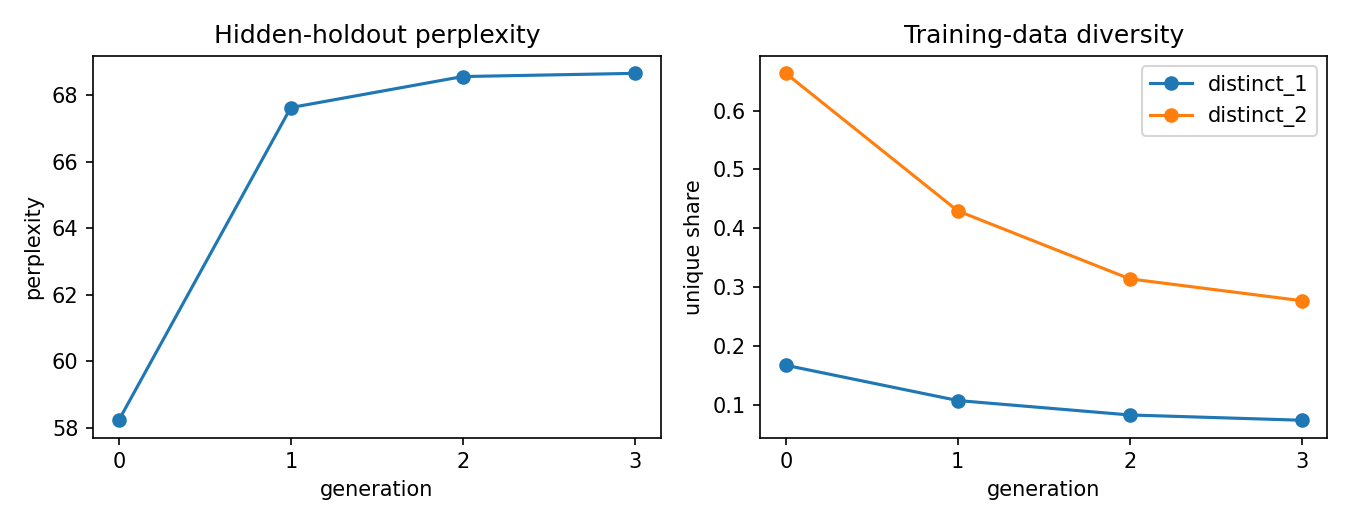
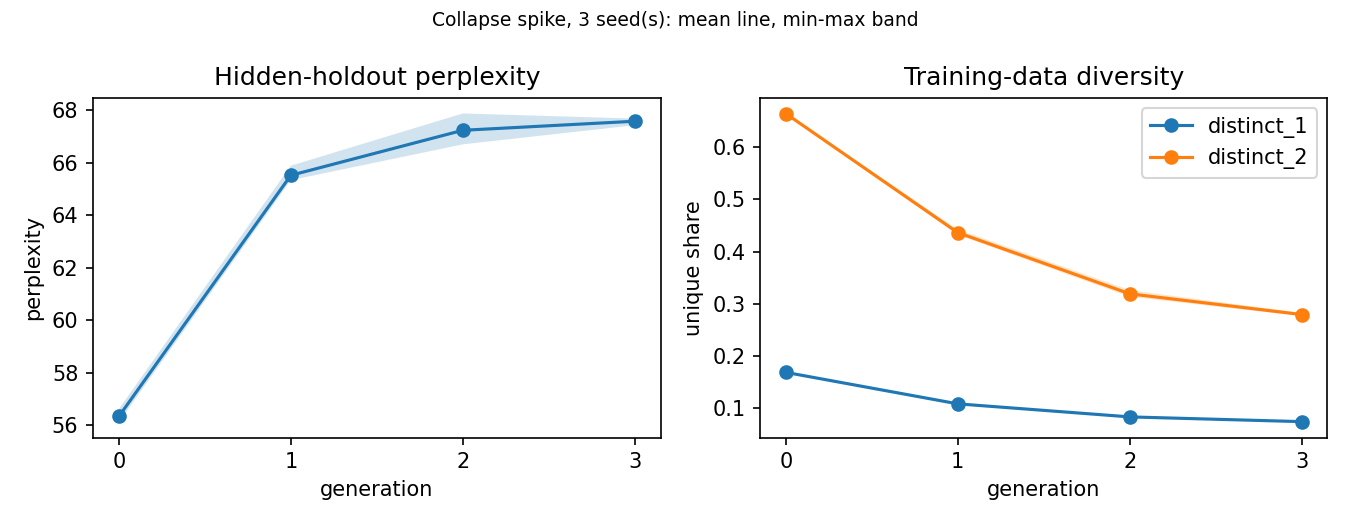
Batch model generation and run the collapse spike on 3 seeds
Generate now takes a list so hf_generator batches on the GPU (3 seeds in 26 min vs 1 seed in 40). GATE 0 passes on every seed: mean holdout perplexity 56.3 -> 67.6 over Gen-0..3, seeds within ~1 point.

diff --git a/src/finetune/collapse.py b/src/finetune/collapse.py
@@ -74,22 +74,27 @@ def _pick(samples: list[Sample], n: int, lo: int, hi: int, rng: random.Random) -
     return rng.sample(fits, min(n, len(fits)))
 
 
-def _plot(rows: Sequence[dict[str, float]], path: Path) -> None:
+def _plot(runs: dict[int, list[dict[str, float]]], path: Path) -> None:
+    """Mean across seeds as a line, the min-max range across seeds as a band."""
     import matplotlib
 
     matplotlib.use("Agg")
     import matplotlib.pyplot as plt
 
-    gens = [r["generation"] for r in rows]
+    rows = list(runs.values())
+    gens = [r["generation"] for r in rows[0]]
     fig, (left, right) = plt.subplots(1, 2, figsize=(9, 3.5))
-    left.plot(gens, [r["holdout_ppl"] for r in rows], marker="o")
+    panels = ((left, ("holdout_ppl",)), (right, ("distinct_1", "distinct_2")))
+    for ax, keys in panels:
+        for key in keys:
+            per_gen = [[run[g][key] for run in rows] for g in range(len(gens))]
+            ax.plot(gens, [sum(v) / len(v) for v in per_gen], marker="o", label=key)
+            ax.fill_between(gens, [min(v) for v in per_gen], [max(v) for v in per_gen], alpha=0.2)
+        ax.set_xticks(gens)
     left.set(title="Hidden-holdout perplexity", xlabel="generation", ylabel="perplexity")
-    for key in ("distinct_1", "distinct_2"):
-        right.plot(gens, [r[key] for r in rows], marker="o", label=key)
     right.set(title="Training-data diversity", xlabel="generation", ylabel="unique share")
     right.legend()
-    for ax in (left, right):
-        ax.set_xticks(gens)
+    fig.suptitle(f"Collapse spike, {len(rows)} seed(s): mean line, min-max band", fontsize=9)
     fig.tight_layout()
     path.parent.mkdir(parents=True, exist_ok=True)
     fig.savefig(path, dpi=150)
@@ -104,62 +109,76 @@ def main(argv: list[str] | None = None) -> int:
     from transformers.utils import logging as hf_logging
 
     hf_logging.set_verbosity_error()  # per-sample generation warnings drown the progress lines
-    cfg =yaml.safe_load(Path(args.config).read_text(encoding="utf-8"))
+    cfg = yaml.safe_load(Path(args.config).read_text(encoding="utf-8"))
     d, t = cfg["data"], cfg["train"]
-    rng = random.Random(cfg["seed"])
-    human = _pick(load_dataset(d["kept"]), d["n_train"], d["min_words"], d["max_words"], rng)
+    kept = load_dataset(d["kept"])
+    # One fixed holdout for every seed, so seeds differ only in training data
+    # and training randomness, never in what they are scored against.
     holdout = [
         s.response
         for s in _pick(
-            load_dataset(d["holdout"]), d["n_holdout"], d["min_words"], d["max_words"], rng
+            load_dataset(d["holdout"]), d["n_holdout"], d["min_words"], d["max_words"],
+            random.Random("holdout"),
         )
     ]
-    models_dir = Path(cfg["models_dir"])
 
-    def train(texts: list[str], g: int) -> Path:
-        print(f"gen {g}: training on {len(texts)} texts", flush=True)
-        return train_lora(
-            texts,
-            models_dir / f"gen_{g}",
-            base_model=cfg["base_model"],
-            seed=cfg["seed"] + g,
-            device=cfg["device"],
-            **t,
+    def run_seed(seed: int) -> list[dict[str, float]]:
+        print(f"seed {seed}", flush=True)
+        rng = random.Random(seed)
+        human = _pick(kept, d["n_train"], d["min_words"], d["max_words"], rng)
+        models_dir = Path(cfg["models_dir"]) / f"seed_{seed}"
+
+        def train(texts: list[str], g: int) -> Path:
+            print(f"  gen {g}: training on {len(texts)} texts", flush=True)
+            return train_lora(
+                texts,
+                models_dir / f"gen_{g}",
+                base_model=cfg["base_model"],
+                seed=seed * 100 + g,
+                device=cfg["device"],
+                **t,
+            )
+
+        def generator_for(model_dir: Path) -> Generate:
+            return hf_generator(
+                str(model_dir),
+                max_new_tokens=cfg["generate"]["max_new_tokens"],
+                batch_size=cfg["generate"]["batch_size"],
+                seed=seed,
+                device=cfg["device"],
+            )
+
+        def evaluate(model_dir: Path) -> dict[str, float]:
+            ppl = perplexity(
+                model_dir, holdout, max_len=t["max_len"], batch_size=t["batch_size"],
+                device=cfg["device"],
+            )
+            print(f"    holdout perplexity {ppl:.2f}", flush=True)
+            return {"holdout_ppl": ppl}
+
+        return run_generations(
+            human,
+            generations=cfg["generations"],
+            train=train,
+            generator_for=generator_for,
+            evaluate=evaluate,
         )
 
-    def generator_for(model_dir: Path) -> Generate:
-        return hf_generator(
-            str(model_dir),
-            max_new_tokens=cfg["generate"]["max_new_tokens"],
-            seed=cfg["seed"],
-            device=cfg["device"],
-        )
-
-    def evaluate(model_dir: Path) -> dict[str, float]:
-        ppl = perplexity(
-            model_dir, holdout, max_len=t["max_len"], batch_size=t["batch_size"],
-            device=cfg["device"],
-        )
-        print(f"  holdout perplexity {ppl:.2f}", flush=True)
-        return {"holdout_ppl": ppl}
-
-    rows = run_generations(
-        human,
-        generations=cfg["generations"],
-        train=train,
-        generator_for=generator_for,
-        evaluate=evaluate,
-    )
-    passed = gate_passes(rows, cfg["gate_min_ppl_increase"])
+    runs = {seed: run_seed(seed) for seed in cfg["seeds"]}
+    per_seed = {seed: gate_passes(rows, cfg["gate_min_ppl_increase"]) for seed, rows in runs.items()}
+    passed = all(per_seed.values())
 
     out = Path(cfg["output_dir"])
     out.mkdir(parents=True, exist_ok=True)
     (out / "metrics.json").write_text(
-        json.dumps({"config": cfg, "generations": rows, "gate_0_passed": passed}, indent=2),
+        json.dumps(
+            {"config": cfg, "runs": runs, "gate_0_per_seed": per_seed, "gate_0_passed": passed},
+            indent=2,
+        ),
         encoding="utf-8",
     )
-    _plot(rows, Path("reports/figures/collapse_spike.png"))
-    print(f"GATE 0 {'PASSED' if passed else 'NOT PASSED'}: see {out / 'metrics.json'}")
+    _plot(runs, Path("reports/figures/collapse_spike.png"))
+    print(f"GATE 0 {'PASSED' if passed else 'NOT PASSED'} on every seed: {per_seed}")
     return 0
 
 

diff --git a/src/generation/model_based.py b/src/generation/model_based.py
@@ -1,7 +1,8 @@
 """Generate synthetic, recursive, and paraphrased contamination with a model.
 
 All three need a language model, but the model is passed in as a plain
-``generate(text) -> text`` callable. That keeps the bookkeeping (ids,
+``generate(texts) -> texts`` callable that takes a whole list of inputs, so a
+real model can batch them on the GPU. That keeps the bookkeeping (ids,
 provenance, generation depth) deterministic and testable on CPU with a stub,
 and lets the same code run against DistilGPT-2 or Qwen2.5 (TRD section 4)
 by swapping the callable. ``hf_generator`` builds the real one.
@@ -17,11 +18,12 @@ by swapping the callable. ``hf_generator`` builds the real one.
 
 from __future__ import annotations
 
-from typing import Callable, Sequence
+from collections.abc import Callable, Sequence
 
 from ..ingestion.schema import Sample
 
-Generate = Callable[[str], str]
+# Takes N input texts, returns N generated texts in the same order.
+Generate = Callable[[list[str]], list[str]]
 
 PARAPHRASE_TEMPLATE = (
     "Rewrite the following text in different words, keeping the meaning.\n\n"
@@ -34,6 +36,13 @@ def _prefix(text: str) -> str:
     return " ".join(words[: max(1, len(words) // 2)])
 
 
+def _call(generate: Generate, inputs: list[str]) -> list[str]:
+    outputs = generate(inputs)
+    if len(outputs) != len(inputs):
+        raise ValueError(f"generate returned {len(outputs)} texts for {len(inputs)} inputs")
+    return [o.strip() for o in outputs]
+
+
 def make_synthetic(samples: Sequence[Sample], generate: Generate) -> list[Sample]:
     """Replace each response with model output and mark it one generation deeper.
 
@@ -42,19 +51,19 @@ def make_synthetic(samples: Sequence[Sample], generate: Generate) -> list[Sample
     recursion. Raw-corpus samples keep their human prefix, because that is what
     the model continued.
     """
+    # Raw-corpus samples are continued from a prefix, which is kept in the output.
+    kept = ["" if s.prompt else _prefix(s.response) for s in samples]
+    inputs = [s.prompt or k for s, k in zip(samples, kept)]
+    outputs = _call(generate, inputs)
+
     out: list[Sample] = []
-    for s in samples:
+    for s, k, gen in zip(samples, kept, outputs):
         depth = s.generation + 1
-        if s.prompt:
-            response = generate(s.prompt).strip()
-        else:
-            prefix = _prefix(s.response)
-            response = f"{prefix} {generate(prefix).strip()}".strip()
         out.append(
             Sample(
                 sample_id=f"{s.sample_id}-g{depth}",
                 prompt=s.prompt,
-                response=response,
+                response=f"{k} {gen}".strip(),
                 label=s.label,
                 source="synthetic" if depth == 1 else "recursive",
                 generation=depth,
@@ -75,17 +84,18 @@ def make_paraphrased(
     Generation is 1 because the text is model-written, even though the content
     comes from a human.
     """
+    outputs = _call(generate, [template.format(text=s.response) for s in samples])
     return [
         Sample(
             sample_id=f"{s.sample_id}-para",
             prompt=s.prompt,
-            response=generate(template.format(text=s.response)).strip(),
+            response=gen,
             label=s.label,
             source="paraphrased",
             generation=1,
             split=s.split,
         ).validate()
-        for s in samples
+        for s, gen in zip(samples, outputs)
     ]
 
 
@@ -93,28 +103,33 @@ def hf_generator(
     model_name: str = "distilgpt2",
     *,
     max_new_tokens: int = 128,
+    batch_size: int = 16,
     seed: int = 0,
     device: int | str = -1,
 ) -> Generate:
-    """Build a ``generate`` callable backed by a Hugging Face text-generation pipeline.
+    """Build a batched ``generate`` callable backed by a Hugging Face pipeline.
 
     Returns only the new text, without the input. Sampling is seeded once, so a
-    run is reproducible on a given machine and library version.
+    run is reproducible on a given machine, library version and batch size.
     """
     from transformers import pipeline, set_seed  # heavy import, only when used
 
     set_seed(seed)
     pipe = pipeline("text-generation", model=model_name, device=device)
+    # GPT-style models have no pad token, and batched generation must pad on
+    # the left so every prompt ends right where generation starts.
+    pipe.tokenizer.pad_token = pipe.tokenizer.pad_token or pipe.tokenizer.eos_token
+    pipe.tokenizer.padding_side = "left"
 
-    def generate(text: str) -> str:
-        # ponytail: one call per sample, no batching. Batch via pipe(list) if
-        # throughput on the full corpus matters.
-        return pipe(
-            text,
+    def generate(texts: list[str]) -> list[str]:
+        results = pipe(
+            texts,
+            batch_size=batch_size,
             max_new_tokens=max_new_tokens,
             do_sample=True,
             return_full_text=False,
-            pad_token_id=pipe.tokenizer.eos_token_id,
-        )[0]["generated_text"]
+            pad_token_id=pipe.tokenizer.pad_token_id,
+        )
+        return [r[0]["generated_text"] for r in results]
 
     return generate

diff --git a/tests/test_model_based.py b/tests/test_model_based.py
@@ -1,11 +1,13 @@
 """Tests for model-based contamination (synthetic / recursive / paraphrased), using a stub model."""
 
+import pytest
+
 from src.generation import make_paraphrased, make_synthetic, mix
 from src.ingestion.schema import Sample
 
 
-def echo(text):
-    return f"<gen:{text}>"
+def echo(texts):
+    return [f"<gen:{t}>" for t in texts]
 
 
 def human():
@@ -36,6 +38,22 @@ def test_paraphrase_rewrites_response_keeps_prompt():
     assert out[0].prompt == "Name a colour."
     assert "Blue." in out[0].response and out[0].response != "Blue."
     assert all(s.source == "paraphrased" and s.generation == 1 for s in out)
+
+
+def test_whole_dataset_goes_to_the_model_in_one_call():
+    calls = []
+
+    def recording(texts):
+        calls.append(texts)
+        return echo(texts)
+
+    make_synthetic(human(), recording)
+    assert calls == [["Name a colour.", "one two three"]]
+
+
+def test_rejects_generator_returning_wrong_count():
+    with pytest.raises(ValueError, match="returned 1 texts for 2 inputs"):
+        make_synthetic(human(), lambda texts: ["only one"])
 
 
 def test_output_feeds_the_mixer():

diff --git a/tests/test_collapse.py b/tests/test_collapse.py
@@ -23,7 +23,7 @@ def test_each_generation_trains_on_the_previous_ones_output():
         human,
         generations=2,
         train=train,
-        generator_for=lambda g: lambda text: f"<m{g}>",
+        generator_for=lambda g: lambda texts: [f"<m{g}>"] * len(texts),
         evaluate=lambda g: {"holdout_ppl": 10.0 + g},
     )
 
